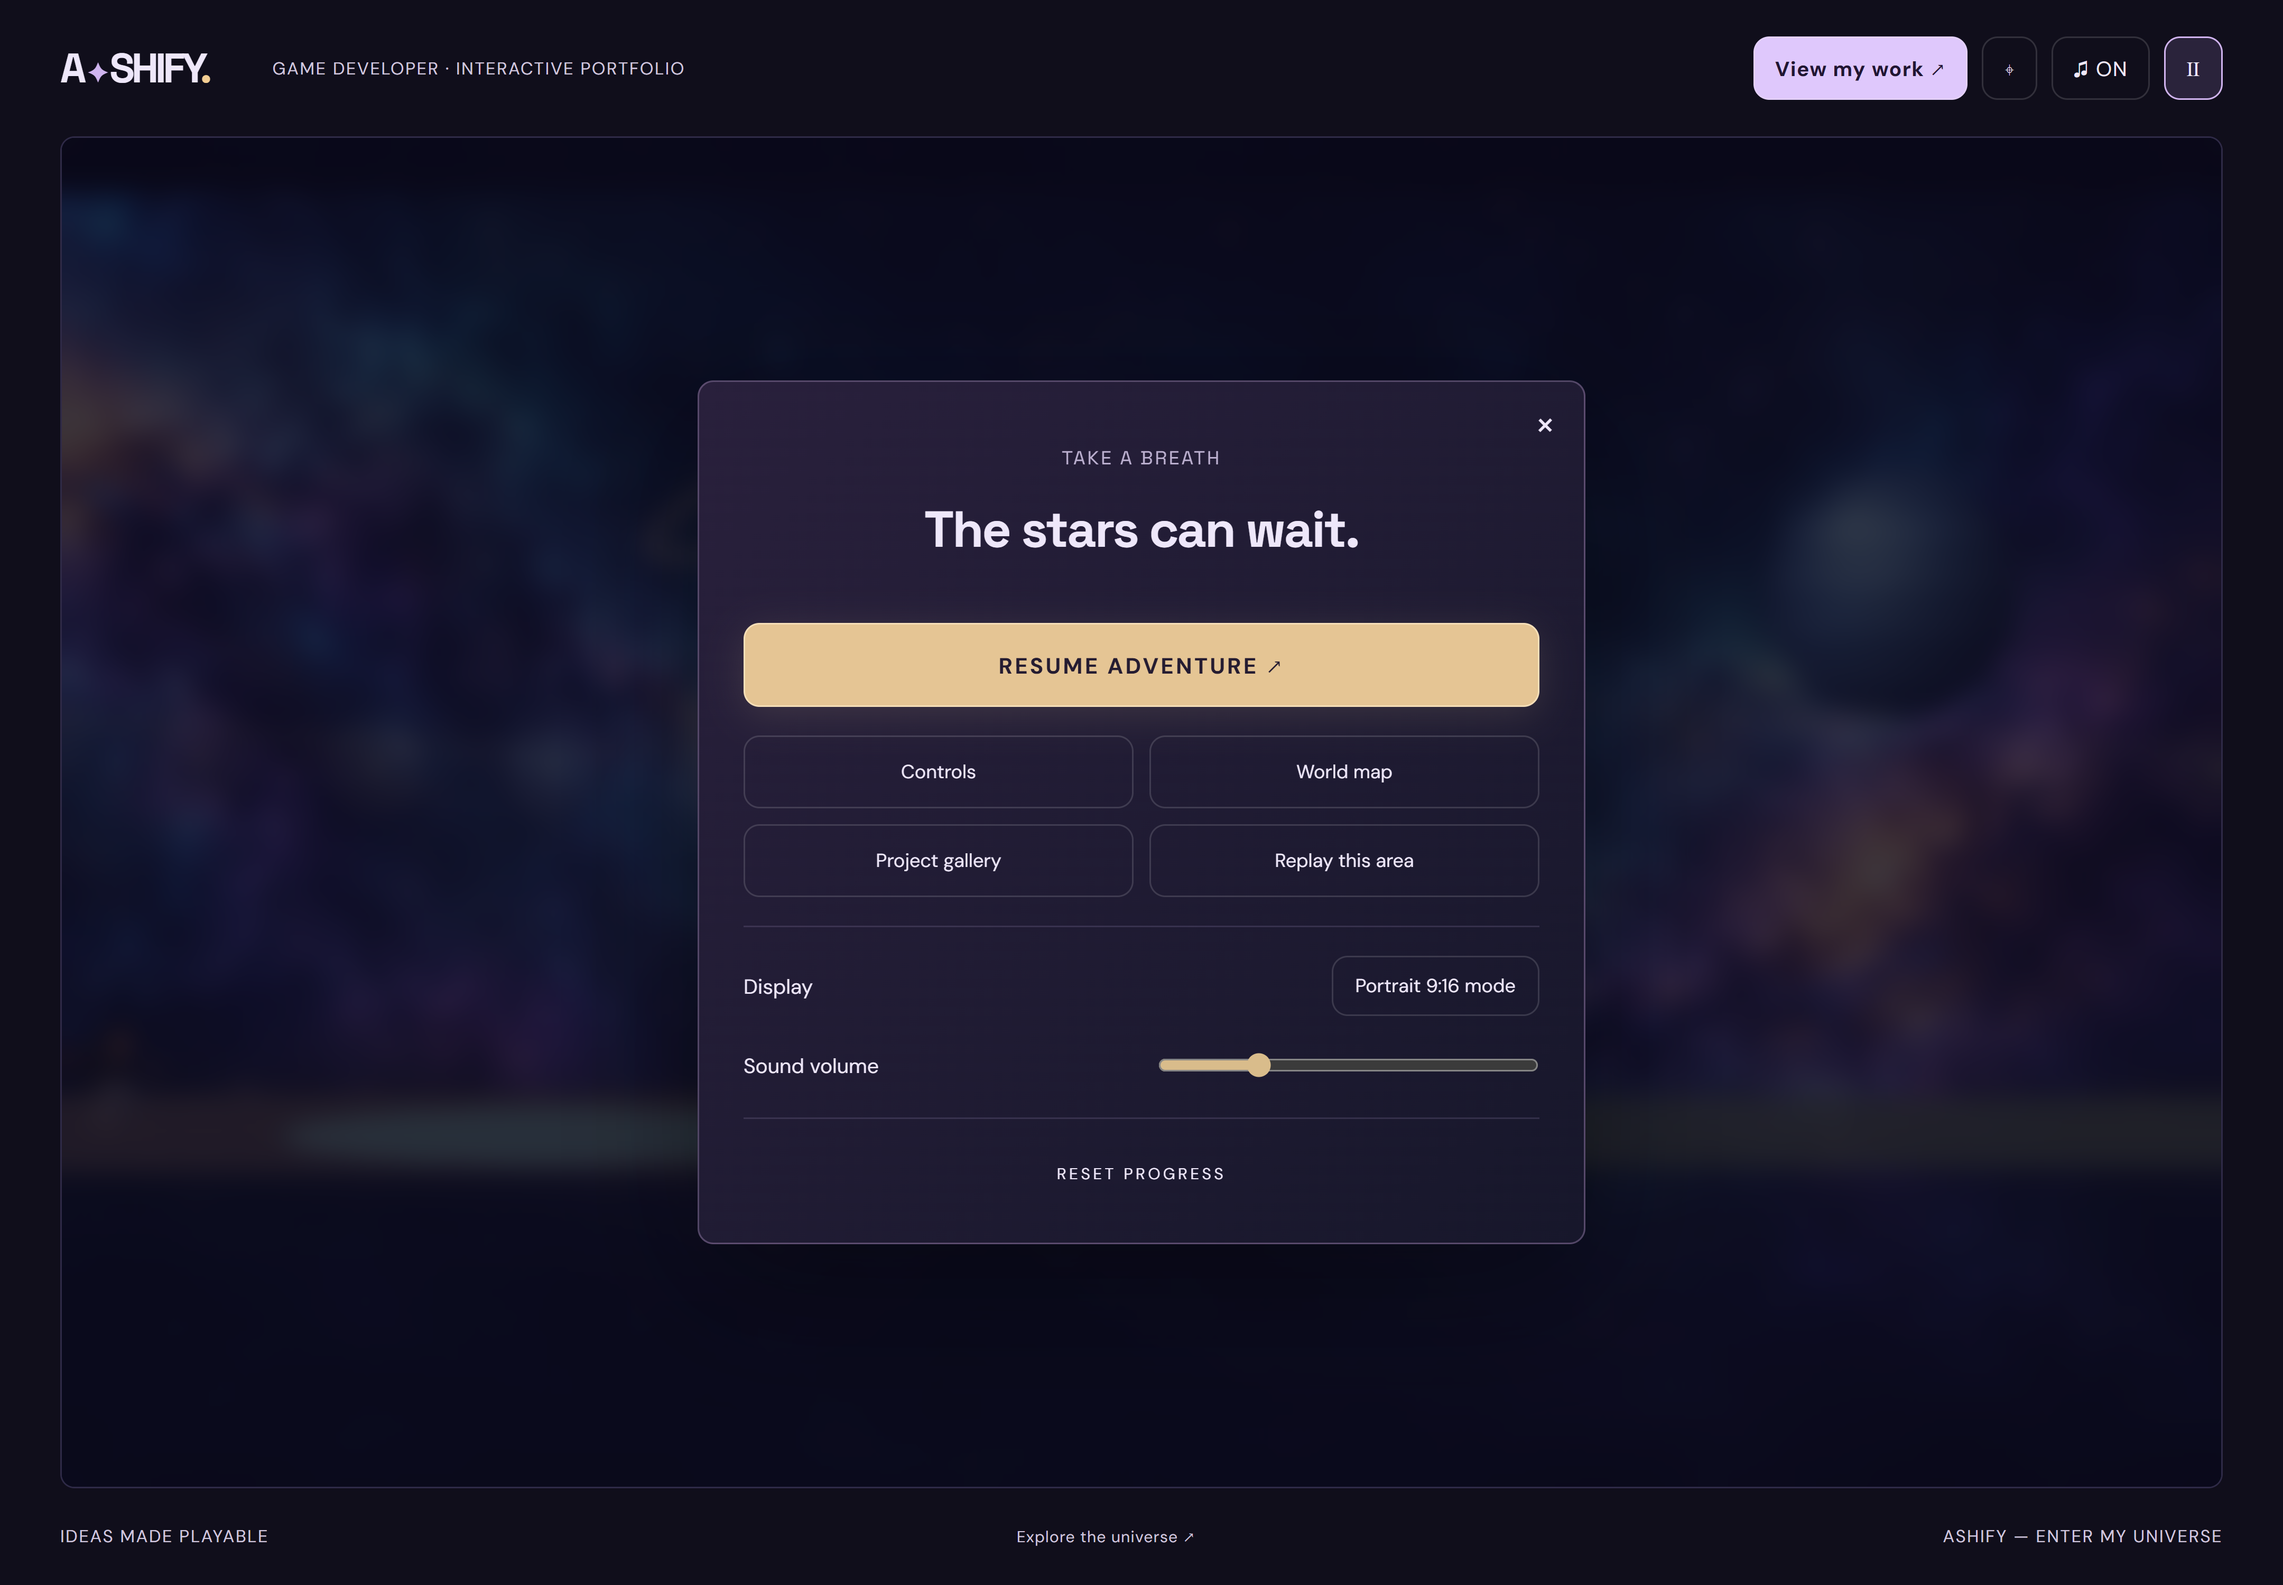
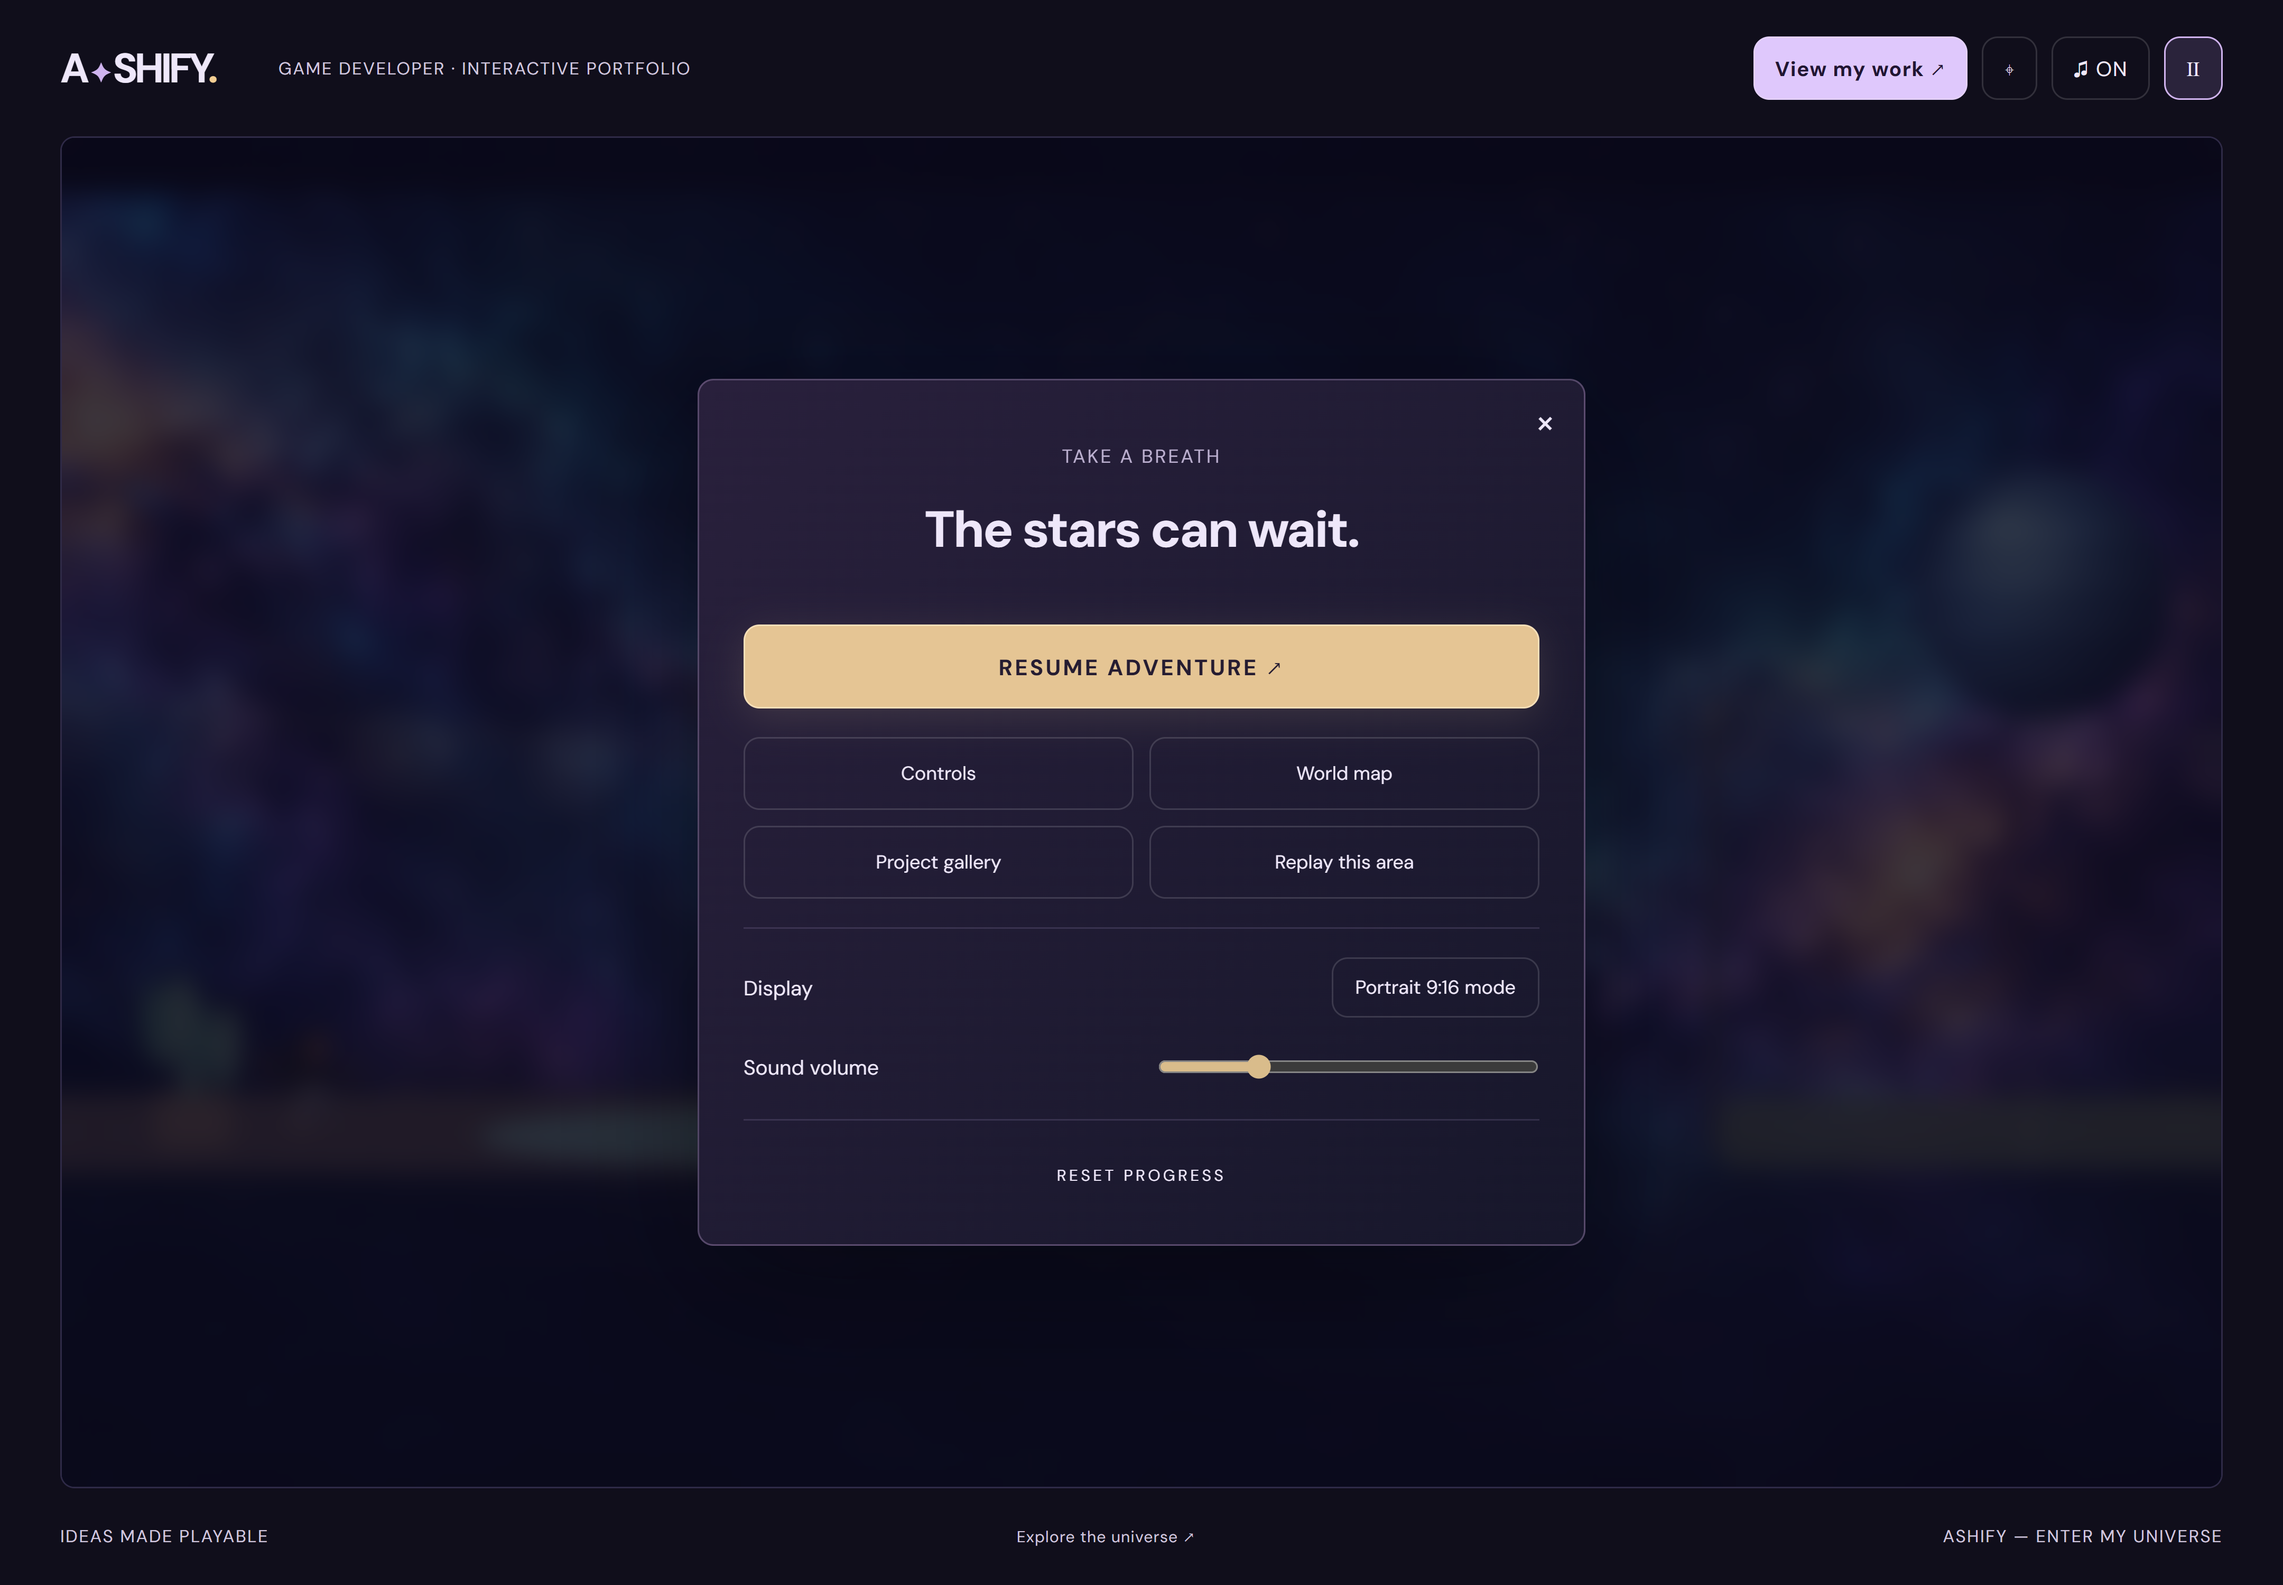
aaa

diff --git a/src/game/Gateway.ts b/src/game/Gateway.ts
@@ -132,7 +132,7 @@ export class Gateway extends Phaser.Scene {
     this.bowVisual = this.add.graphics().setDepth(12);
     this.prompt = this.add
       .text(0, 0, '', {
-        fontFamily: 'Arial, sans-serif',
+        fontFamily: 'DM Sans, sans-serif',
         fontSize: '16px',
         color: '#fff0d2',
         backgroundColor: '#17132ee8',
@@ -141,6 +141,7 @@ export class Gateway extends Phaser.Scene {
         wordWrap: { width: 300 },
       })
       .setOrigin(0.5, 1)
+      .setResolution(2)
       .setDepth(25);
     this.time.addEvent({
       delay: 6500,
@@ -282,7 +283,7 @@ export class Gateway extends Phaser.Scene {
   label(x: number, y: number, text: string, size = 13, color = '#e3d3ed') {
     return this.add
       .text(x, y, text, {
-        fontFamily: 'Arial, sans-serif',
+        fontFamily: 'DM Sans, sans-serif',
         fontSize: Math.max(16, size) + 'px',
         color,
         align: 'center',
@@ -314,6 +315,22 @@ export class Gateway extends Phaser.Scene {
         ][this.world],
       );
     });
+  }
+  badge(x: number, y: number, title: string, size = 18) {
+    const text = this.label(x, y, title, size, '#f4eaff')
+      .setFontFamily('DM Sans, sans-serif').setFontStyle('500').setPadding(18, 10);
+    const plate = this.add.graphics().setDepth(text.depth - 0.1);
+    const draw = () => {
+      plate.clear().setVisible(text.visible).setAlpha(text.alpha);
+      if (!text.visible) return;
+      const b = text.getBounds();
+      plate.fillStyle(0x211a35, 0.94).fillRoundedRect(b.x, b.y, b.width, b.height, 12);
+      plate.lineStyle(1.2, 0xc8a6ed, 0.55).strokeRoundedRect(b.x, b.y, b.width, b.height, 12);
+    };
+    this.events.on('update', draw);
+    text.once('destroy', () => { this.events.off('update', draw); plate.destroy(); });
+    draw();
+    return text;
   }
   portal(x: number, y: number, title: string, color = worlds[this.world].color) {
     const c = this.add.container(x, y).setDepth(3);
@@ -358,7 +375,17 @@ export class Gateway extends Phaser.Scene {
       yoyo: true,
       repeat: -1,
     });
-    this.label(x, y - 112, title, 18, '#ffffff');
+    const label = this.badge(x, y - 112, title, 18).setName('portal-label');
+    const glow = this.add.ellipse(x, y, 145, 190, color, 0).setDepth(2);
+    const highlight = () => {
+      const near = Math.max(0, 1 - Math.abs(this.player.x - x) / 230);
+      const pulse = 0.5 + 0.5 * Math.sin(this.time.now * 0.004);
+      label.setScale(1 + near * 0.06).setY(y - 112 - near * (4 + pulse * 3));
+      label.setShadow(0, 0, '#e3c6ff', near * (8 + pulse * 8), true, true);
+      glow.setAlpha(near * (0.07 + pulse * 0.06));
+    };
+    this.events.on('update', highlight);
+    label.once('destroy', () => this.events.off('update', highlight));
     return c;
   }
   pose(frame: number, duration = 700) {
@@ -530,8 +557,9 @@ export class Gateway extends Phaser.Scene {
       )
       .setVisible(
         !!hint &&
-          !this.logic.stations.some((st) => Math.abs(st.x - this.player.x) < 110) &&
-          viewWidth(this) > 650,
+          (this.world === 1
+            ? this.logic.stations.some((st) => Math.abs(st.x - this.player.x) < 110) || this.player.x > worlds[this.world].width - 260
+            : !this.logic.stations.some((st) => Math.abs(st.x - this.player.x) < 110) && viewWidth(this) > 650),
       );
     if (this.drawing) {
       this.player.anims.stop();
@@ -590,3 +618,4 @@ export class Gateway extends Phaser.Scene {
     });
   }
 }
+

diff --git a/src/styles/global.css b/src/styles/global.css
@@ -1,4 +1,4 @@
-@import url('https://fonts.googleapis.com/css2?family=DM+Sans:wght@400;500;600;700&family=Space+Grotesk:wght@400;500;600;700&display=swap');
+@import url('https://fonts.googleapis.com/css2?family=DM+Sans:wght@400;500;600;700&display=swap');
 :root {
   font-family: 'DM Sans', sans-serif;
   color: #eee7fa;
@@ -56,7 +56,7 @@ a {
   gap: 40px;
 }
 .wordmark {
-  font-family: 'Space Grotesk', sans-serif;
+  font-family: 'DM Sans', sans-serif;
   font-weight: 700;
   font-size: 26px;
   letter-spacing: -2px;
@@ -124,7 +124,7 @@ a {
 }
 .eyebrow,
 small {
-  font-family: 'Space Grotesk', sans-serif;
+  font-family: 'DM Sans', sans-serif;
   letter-spacing: 2.5px;
   font-size: 10px;
   color: #bcb0d0;
@@ -140,7 +140,7 @@ small {
   background: #b69ac8;
 }
 h1 {
-  font-family: 'Space Grotesk', sans-serif;
+  font-family: 'DM Sans', sans-serif;
   font-size: clamp(76px, 10vw, 150px);
   letter-spacing: -7px;
   line-height: 0.9;
@@ -176,7 +176,7 @@ p {
   padding: 16px 25px;
   font-size: 11px;
   letter-spacing: 1.4px;
-  font-weight: 800;
+  font-weight: 700;
   border-radius: 3px;
 }
 .primary:hover {
@@ -198,7 +198,7 @@ p {
   margin-left: 16px;
 }
 .press-start {
-  font-family: monospace;
+  font-family: 'DM Sans', sans-serif;
   font-size: 9px;
   letter-spacing: 2px;
   color: #9c8bac;
@@ -231,7 +231,7 @@ p {
   justify-content: space-between;
   padding: 20px 28px;
   background: linear-gradient(transparent, #100e2380);
-  font: 9px monospace;
+  font: 9px 'DM Sans', sans-serif;
   letter-spacing: 1px;
   color: #aca0c0;
   pointer-events: none;
@@ -266,7 +266,7 @@ footer button {
 .hud strong {
   display: block;
   font:
-    13px 'Space Grotesk',
+    13px 'DM Sans',
     sans-serif;
   letter-spacing: 2px;
   margin-top: 8px;
@@ -310,7 +310,7 @@ footer button {
   animation: appear 0.4s ease-out;
 }
 .panel h2 {
-  font-family: 'Space Grotesk', sans-serif;
+  font-family: 'DM Sans', sans-serif;
   font-size: 32px;
   letter-spacing: -1px;
   margin: 20px 0;
@@ -719,7 +719,7 @@ kbd {
   padding: 12px 18px;
   background: #201327cd;
   border: 1px solid #e793b5;
-  font: 11px monospace;
+  font: 11px 'DM Sans', sans-serif;
   text-align: center;
   pointer-events: none;
 }
@@ -742,7 +742,7 @@ kbd {
   padding: 13px;
 }
 .world-map button > span {
-  font: 20px monospace;
+  font: 20px 'DM Sans', sans-serif;
   color: #d9c496;
 }
 .world-map b {
@@ -869,7 +869,7 @@ kbd {
 }
 .brand-reveal {
   font:
-    700 36px 'Space Grotesk',
+    700 36px 'DM Sans',
     sans-serif;
   letter-spacing: 6px;
   color: #eed2a2;
@@ -924,7 +924,7 @@ kbd {
 
 /* Clear typography and a calmer, smooth portfolio presentation. */
 body {
-  font-family: 'DM Sans', Arial, sans-serif;
+  font-family: 'DM Sans', sans-serif;
 }
 button {
   border-radius: 10px;
@@ -1866,6 +1866,7 @@ h1 {
 @keyframes ash-wave { 0%, 100% { transform: rotate(-5deg); } 50% { transform: rotate(5deg); } }
 @media (max-height: 740px) { .final-panel .fullbody-portrait { width: 240px; height: 240px; margin-left: -64px; } }
 @media (prefers-reduced-motion: reduce) { .is-waving .greeting-hand { animation: none; } }
+
 
 
 

diff --git a/tests/game.spec.ts b/tests/game.spec.ts
@@ -328,3 +328,26 @@ test.describe('portrait polish', () => {
     expect(errors).toEqual([]);
   });
 });
+
+test('portal labels highlight nearby and interaction guide stays visible', async ({ page }) => {
+  await start(page);
+  await page.getByRole('button', { name: 'View my work' }).click();
+  await page.waitForTimeout(800);
+  await page.evaluate(() => {
+    const s = (window as any).__ashify.scene.getScene('Gateway');
+    s.player.setPosition(280, 600);
+  });
+  await expect.poll(() => page.evaluate(() => {
+    const s = (window as any).__ashify.scene.getScene('Gateway');
+    return s.prompt.visible && s.prompt.text.includes('Open 2D Games');
+  })).toBe(true);
+  expect(await page.evaluate(() => {
+    const s = (window as any).__ashify.scene.getScene('Gateway');
+    return s.children.getByName('portal-label').scaleX;
+  })).toBeGreaterThan(1.04);
+  await page.screenshot({path: 'design/portal-labels.png'});
+  await page.setViewportSize({width:390,height:844});
+  await page.waitForTimeout(500);
+  expect(await page.evaluate(() => (window as any).__ashify.scene.getScene('Gateway').prompt.visible)).toBe(true);
+  await page.screenshot({path: 'design/portal-labels-mobile.png'});
+});

diff --git a/src/game/systems/Challenges.ts b/src/game/systems/Challenges.ts
@@ -41,9 +41,7 @@ export class Challenges {
       buildHobbySpace(s, name, cx, i);
       const action = () => this.startHobby(i);
       this.stations.push({ x: cx - 275, title: 'Play ' + name, action });
-      s.label(cx - 275, 690, 'E · PLAY ' + name.toUpperCase(), 16, '#fff2d4')
-        .setBackgroundColor('#172e3be8')
-        .setPadding(12, 8)
+      s.badge(cx - 275, 690, 'E · Play ' + name, 16)
         .setData('hobby-prompt', true)
         .setVisible(viewWidth(s) > 650)
         .setInteractive({ useHandCursor: true })
@@ -75,7 +73,7 @@ export class Challenges {
       const x = 280 + i * 340;
       s.portal(x, 570, c.title, Phaser.Display.Color.HexStringToColor(c.color).color);
       const open = () => bridge.emit('showcase', c.id);
-      this.stations.push({ x, title: 'Explore ' + c.title, action: open });
+      this.stations.push({ x, title: 'Open ' + c.title, action: open });
       s.add
         .zone(x, 550, 155, 190)
         .setInteractive({ useHandCursor: true })

diff --git a/src/game/systems/HobbySpaces.ts b/src/game/systems/HobbySpaces.ts
@@ -148,9 +148,7 @@ export function buildHobbySpace(s: Gateway, name: string, cx: number, index: num
     yoyo: true,
     repeat: -1,
   });
-  s.label(cx, 318, String(index + 1).padStart(2, '0') + '  /  ' + name.toUpperCase(), 23, '#fff0d5')
-    .setBackgroundColor('#172b37e8')
-    .setPadding(20, 10)
+  s.badge(cx, 318, name, 23)
     .setData('hobby-prompt', true)
     .setVisible(viewWidth(s) > 650);
 }
